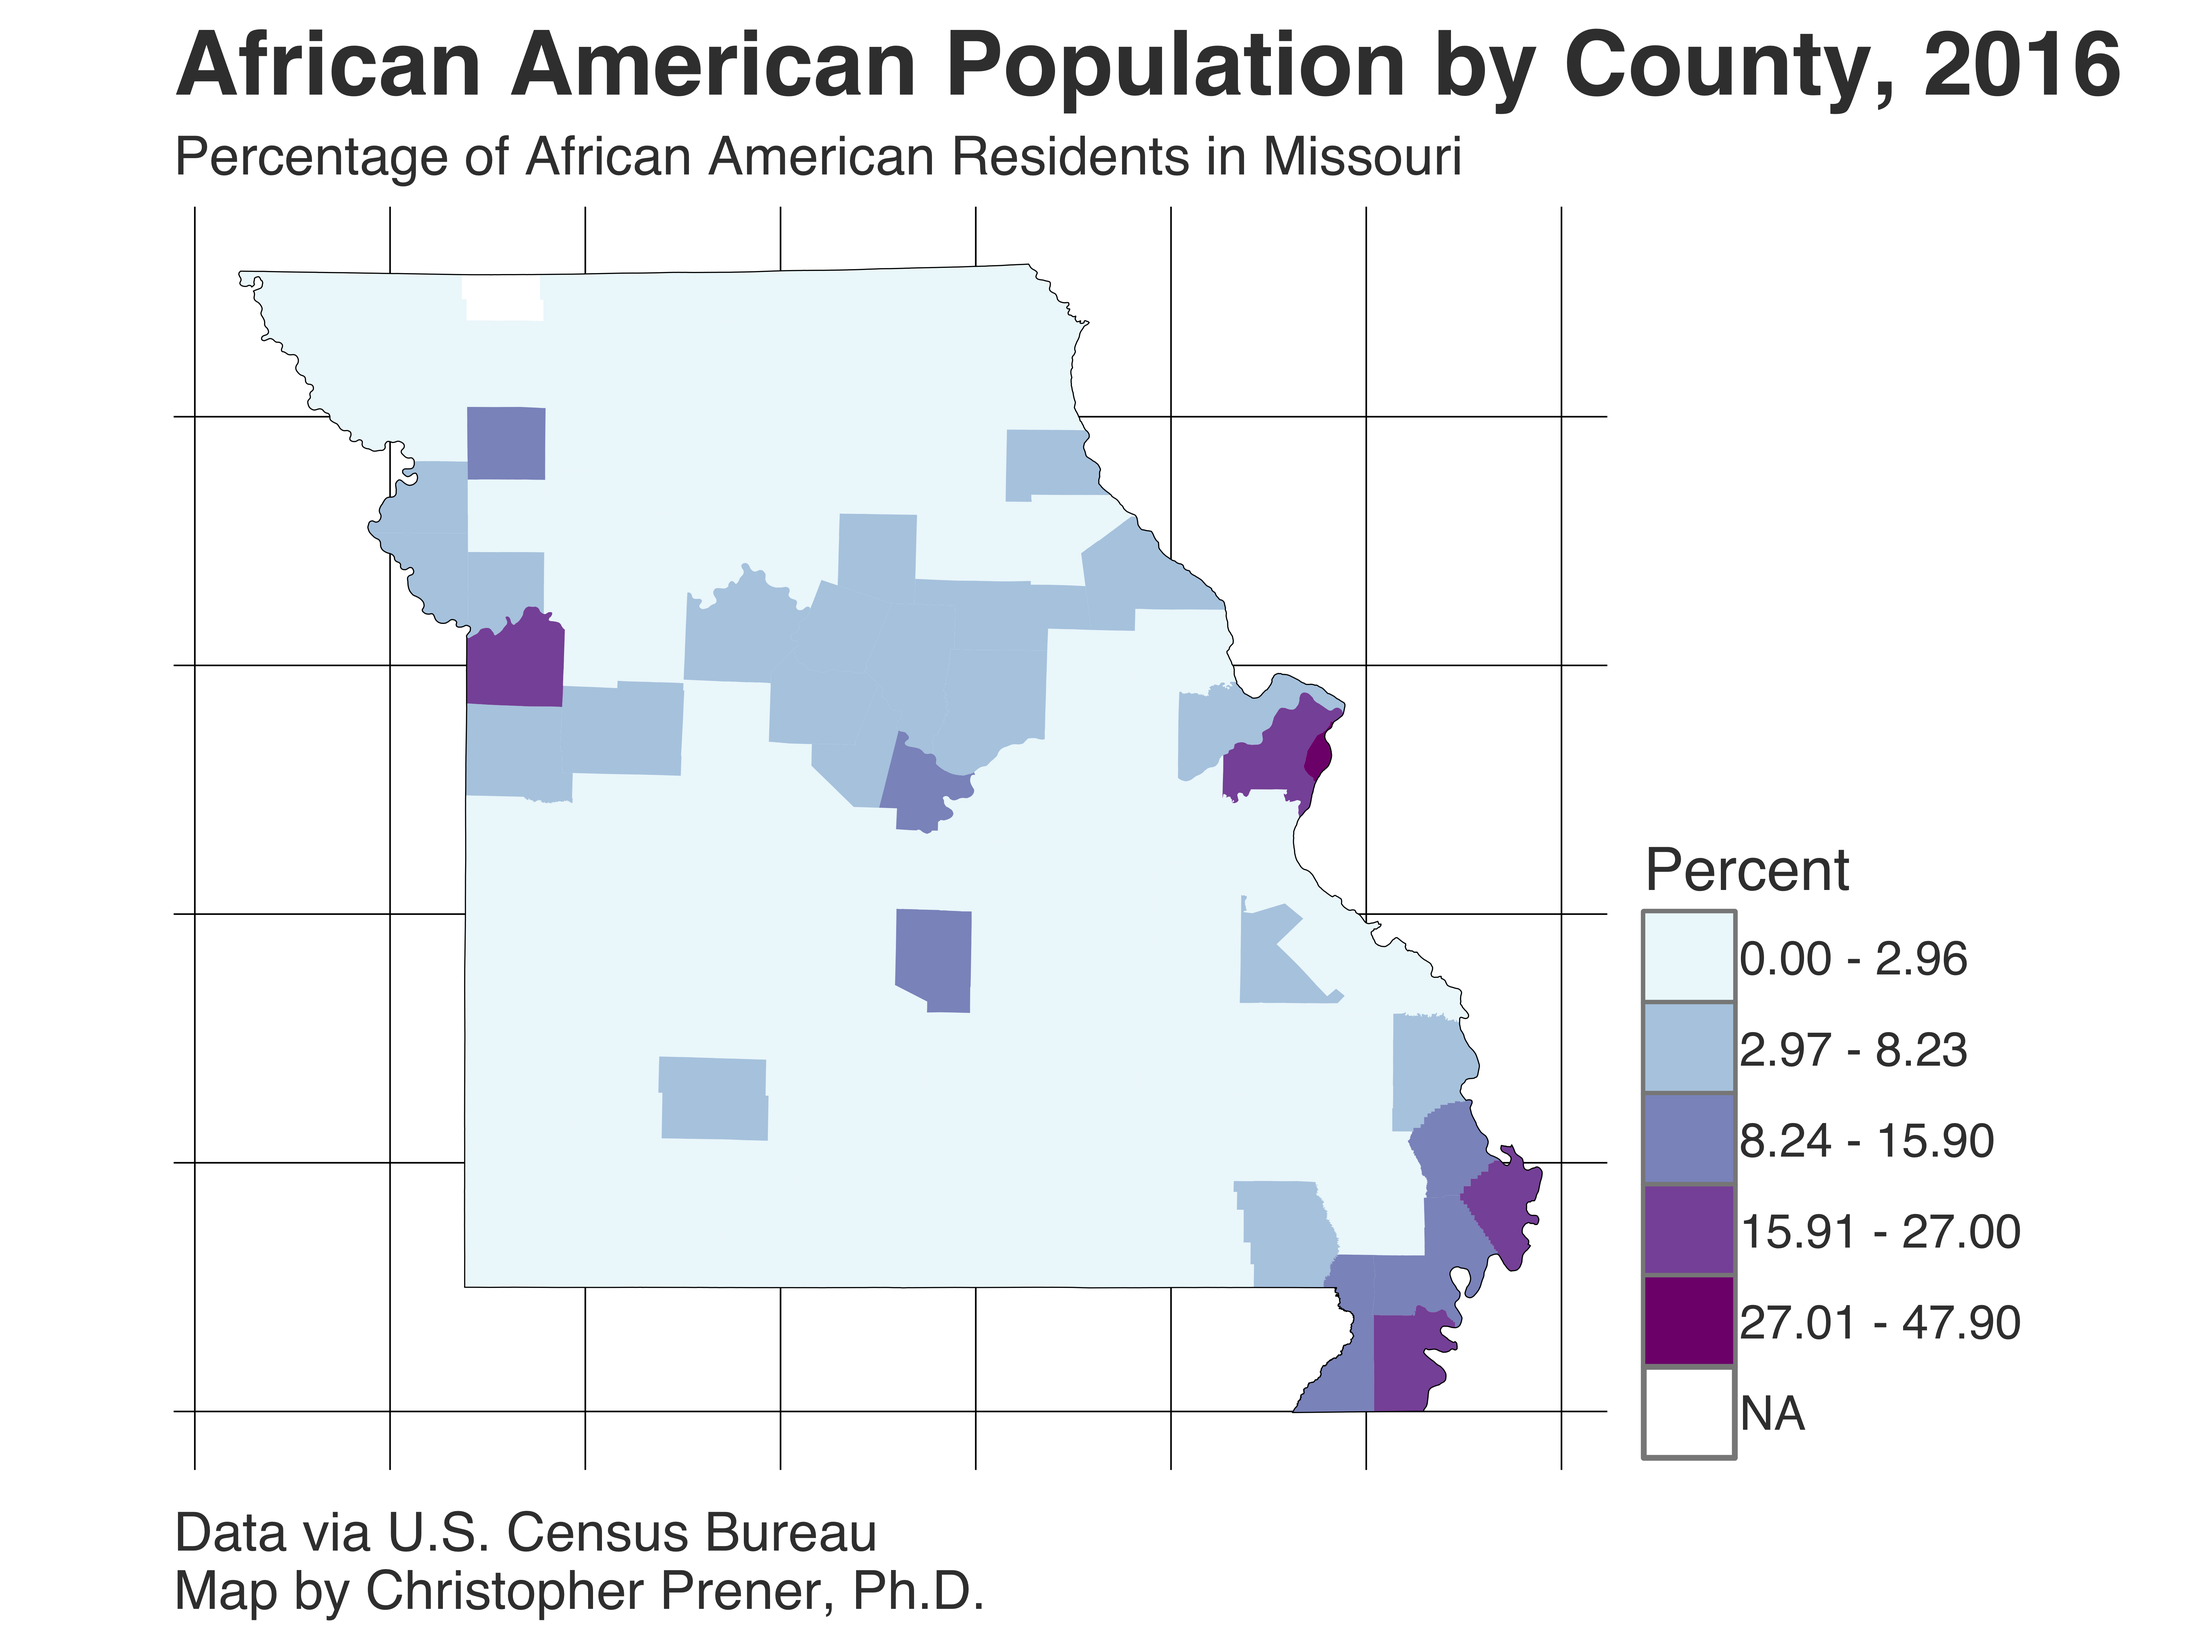
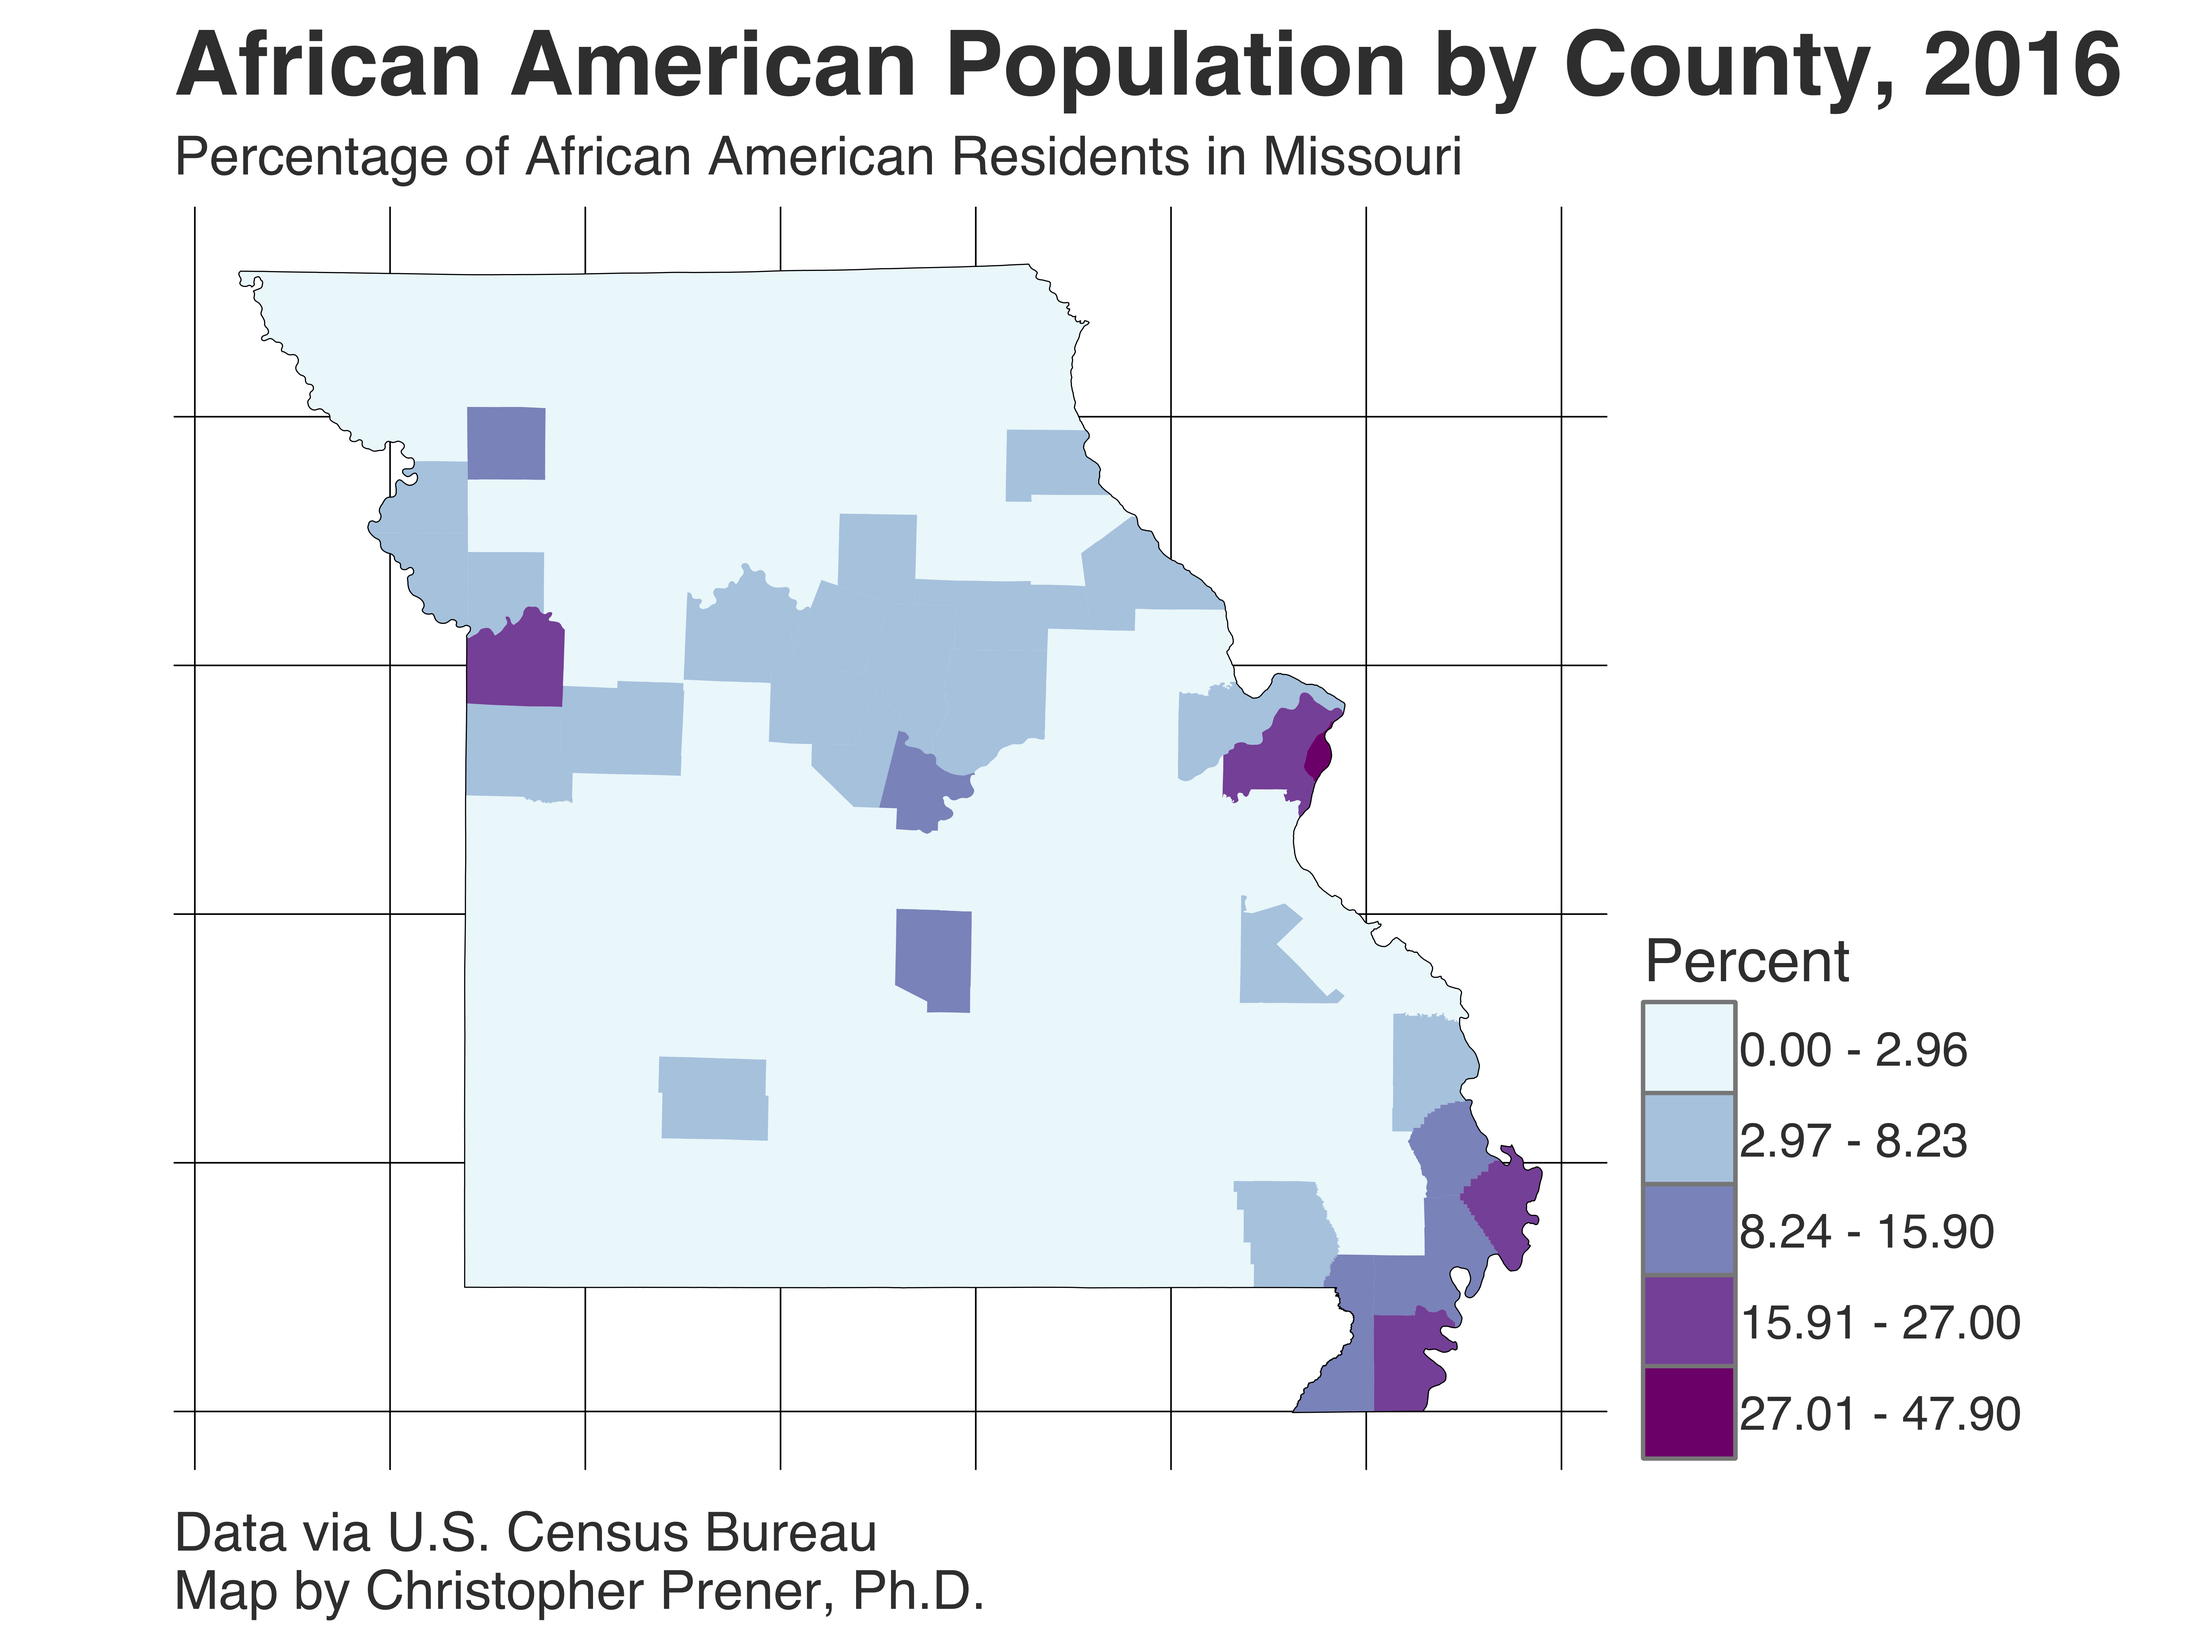
remove NA from map legend

diff --git a/NEWS.md b/NEWS.md
@@ -1,3 +1,8 @@
+# MO_DEMOS_countyRace v0.1.1
+
+* Update code to use new `prener::cp_breaks` function
+* New breaks function removes the `NA` value from the legend
+
 # MO_DEMOS_countyRace v0.1.0
 
 * Add map images for the percentage of African Americans by county in Missouri for 2016
